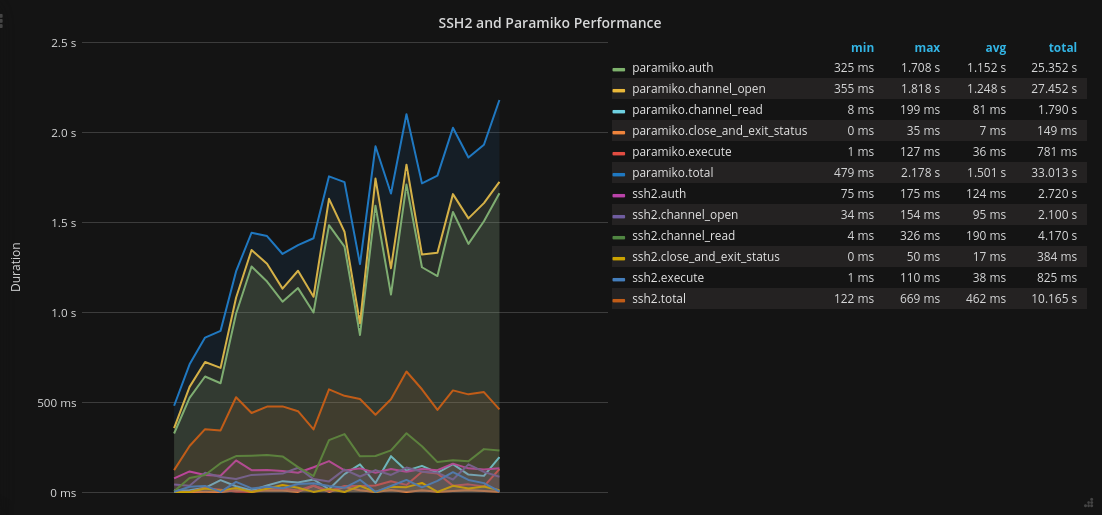
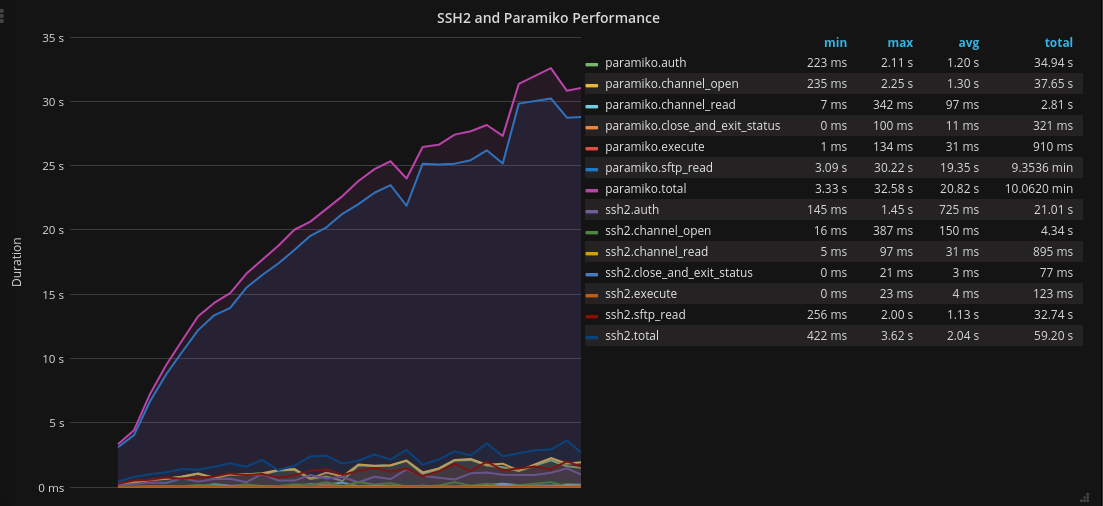
Updated ssh2 post, graphs

diff --git a/content/post/ssh2-python.md b/content/post/ssh2-python.md
@@ -9,15 +9,16 @@ draft: true
 
 In this post a new option for Python SSH libraries, [ssh2-python](https://github.com/ParallelSSH/ssh2-python), shall be compared to Paramiko to demonstrate their respective performance with particular emphasis on concurrency and non-blocking requests.
 
-In looking for a Python SSH library to use in an application, not many options exist. Indeed, the only general purpose library that has, up to now, been available is Paramiko, which implements the SSH2 API in Python.
+In looking for a Python SSH library to use in an application, not many options exist. Indeed, the only general purpose library that has, up to now, been available is Paramiko, which implements the SSH2 API in Python code.
 
-For better or worse - it is without doubt that the library has helped a great number of people with similar requirements as it has historically been the only option - Paramiko has been the de-facto stanard for Python SSH libraries so far.
+For better or worse - it is without doubt that the library has helped a great number of people with similar requirements, this author included as it has historically been the only option - Paramiko has been the de-facto stanard for Python SSH libraries so far.
 
-However, it leaves a lot to be desired from a performance, stability and resource consumption stand point.
+However, it leaves a lot to be desired of from a performance, stability and resource consumption stand point.
 
 Luckily, there is now another option in the form of `ssh2-python` which is based on the [libssh2](https://www.libssh2.org) C library.
 
 Many automation applications like [Ansible](https://www.ansible.com/) and [Fabric](https://github.com/fabric/fabric) make use of Paramiko and would likely be interested in knowing other options now exist. Hopefully this post will help these and other applications determine which library is better suited.
+
 
 # Performance Comparison
 
@@ -25,154 +26,112 @@ Many automation applications like [Ansible](https://www.ansible.com/) and [Fabri
 
 [paramiko](https://github.com/paramiko/paramiko) is written in Python and makes use of native extension dependencies like cryptography. It supports Linux, OSX and Windows and its native dependencies provide binary wheels.
 
+
 ## Test Setup
 
-Two separate test setups will be examined, one using threading and one using non-blocking network I/O via the [gevent](https://gevent.org) library.
+Test is using Python's `threading` standard library for concurrency. A subsequent blog post will examine non-blocking performance in the libraries via the [gevent](http://gevent.org) co-routine library. 
 
-In all cases a test script creates SSH connections in parallel to a local to the test script SSH server (OpenSSH), starting from one and increasing by one each time until completion. This shows how the two libraries scale as number of parallel connections increases.
+While threading is not a good model for scaling concurrency of network I/O, it is the only concurrency mode Paramiko supports natively and is what is used by applications like Ansible. Other projects like [parallel-ssh](https://github.com/ParallelSSH/parallel-ssh), of which am also author of, use gevent's monkey patching to make Paramiko co-operatively concurrent. That too comes with significant drawbacks which the currently in-development `ssh2-python` based natively non-blocking client aims to solve. See the [work in progress pull request](https://github.com/ParallelSSH/parallel-ssh/pull/86) for more details on that.
 
-Max parallel clients differ in the two test cases, fifty (50) for threading and one hundred (100) for non-blocking due to diminishing returns in the threading case.
+The test script creates SSH sessions in parallel to an SSH server (OpenSSH) via loop back device (localhost), starting from one and increasing by one each iteration until completion. This shows how the two libraries scale as number of parallel sessions increases.
 
-In all tests the latest available version of each library is used, ``2.2.1`` and ``0.5.3`` for Paramiko and ssh2-python respectively. For `ssh2-python` an embedded `libssh2` was used, latest available version `1.8.0`.
+Maximum number of threads and therefor parallel sessions are set to 50. All tests are performed on a quad physical core CPU.
 
-The libraries are compared in five separate SSH operations, as well as total time spent from start to finish per SSH session.
+In all tests the latest available version of each library is used, ``2.2.1`` and ``0.5.3`` for Paramiko and ssh2-python respectively. For `ssh2-python` an embedded `libssh2` was used, latest available version `1.8.0`. All tests performed under Python `2.7`.
 
-The four operations compared are:
+The libraries are compared in six separate SSH operations, as well as total time spent from start to finish per SSH session.
+
+The six operations compared are:
 
 * Session initialisation and authentication with SSH agent (`auth`)
 * Channel open (`channel_open`)
-* Channel execute shell command, `cat` on a static file (`execute`)
+* Channel execute (`execute`)
 * Channel read - (`channel_read`)
 * Channel close and get exit status (`close_and_exit_status`)
+* SFTP read (`sftp_read`)
 
 A quick explanation of what these operations do:
 
 * Session initialisation and authentication - perform handshake with SSH server and authenticate via a system SSH agent.
 * Channel open - one new SSH channel on an authenticated session is required to be opened per remote command to run.
+* Channel execute - run shell command `cat` on a static file
 * Channel read - retrieving command output.
 * Channel close - performed when command is finished in order to gather exit status.
+* SFTP read - initialise SFTP session, open remote file handle, read data. Read data is not written anywhere.
+
 
 The static file that is used for the `cat` remote command is a `26KB` [license file from the ssh2-python repository](https://github.com/ParallelSSH/ssh2-python/blob/master/LICENSE).
+
+The file used for SFTP read is an 11MB compressed tar archive.
 
 All durations are in milliseconds (ms).
 
 
-### Test 1 - Threading <a name="threading"></a>
+### Test Results
 
-In the threading test, each SSH session is run in a separate thread via Python's `threading` standard library. No external dependencies are used.
-
-
-#### All Operations Graph
-
-Here is how the two libraries compare on the four separate operations plus total time spent.
-
-Click on image for a larger version.
-
-[![ssh2 paramiko comparison](/static/ssh2_paramiko.png "All Operations Threading Comparison")](/static/ssh2_paramiko.png)
-
-As can be seen above, Paramiko durations are dominated by authentication and channel open which keep increasing as concurrency ramps up.
-
-For ssh2-python, biggest time spent is in channel read, followed by channel open and auth, with spikes in latency that are somewhat expected, given the blocking calls used.
-
-
-#### Median Operations
-
-Median times for operations, not including total time, to give a more normalised view of timings excluding outliers.
-
-Click on image for a larger version.
-
-[![ssh2 paramiko comparison](/static/ssh2_paramiko_median.png "All Operations Threading Comparison")](/static/ssh2_paramiko_median.png)
-
-
-### Test 2 - Non-Blocking <a name="non-blocking"></a>
-
-In the non-blocking case, each SSH session is run in a separate `greenlet`. Since Paramiko does not support non-blocking requests, gevent's monkey patching was used to patch the standard library as non-blocking. This allows the code between the two scripts to remain identical, other than the monkey patching.
-
-While ssh2-python supports non-blocking mode natively via `libssh2`, keeping the test code identical allows for a more fair apples-to-apples comparison with Paramiko. A native non-blocking client could, however, perform better with `ssh2-python`.
-
+Graphs show median values per thirty second intervals.
 
 #### All Operations Graph
 
-Click on image for a larger version.
-
-[![ssh2 paramiko comparison](/static/ssh2_paramiko_gevent.png "All Operations non-blocking Comparison")](/static/ssh2_paramiko_gevent.png)
-
-
-In the non-blocking case, authentication and channel open again dominate Paramiko durations. Predominantly blocking calls like channel read, close and exit status durations have reduced significantly.
-
-For `ssh2-python`, it appears that the non-blocking socket provided by `gevent` has smoothed out spikes in latency in its operations and as a result operations that predominantly wait for remote output *do not increase in duration* as concurrency ramps up. 
-
-This matches similar reductions in the Paramiko case but in a larger number of operations, pointing to in-code overhead for these operations in Paramiko.
-
-Highest `ssh2-python` durations are in authentication and channel open in this case.
-
-
-#### Median Operations
-
-Here are median times for the non-blocking case, excluding total time.
+Here is how the two libraries compare on the five separate operations plus total time spent.
 
 Click on image for a larger version.
 
-[![ssh2 paramiko comparison](/static/ssh2_paramiko_gevent_median.png "Individual Operations non-blocking Comparison")](/static/ssh2_paramiko_gevent_median.png)
+[![ssh2 paramiko comparison](/static/ssh2_paramiko.png "All Operations Comparison")](/static/ssh2_paramiko.png)
 
+As can be seen above, Paramiko durations are dominated by SFTP read, authentication and channel open which keep increasing as concurrency ramps up.
+
+For ssh2-python, biggest time spent is in SFTP read followed by auth and channel open. 
+
+Both libraries show intermittent spikes in duration that are expected given the number of threads and blocking calls used.
+
+
+#### Individual Operations
+
+Times for operations not including SFTP and total to show a closer view of the rest of timings.
+
+Click on image for a larger version.
+
+[![ssh2 paramiko comparison](/static/ssh2_paramiko_median.png "Individual Operations Comparison")](/static/ssh2_paramiko_median.png)
 
 # Relative Performance
 
-Performance of the averages of *median* operation of the two libraries for the duration of each test compared relative to each other. Total duration is an absolute time, not a median.
+Relative performance of the averages of *median* operations of the two libraries for the duration of the test. Total and SFTP read durations are for averages.
 
-For example if a `Paramiko` operation is twice as fast as the equivalent `ssh2-python` operation, its relative performance difference is `50%` compared to ssh2-python. Identical durations result in `100%` relative performance.
-
-## Threading
+For example if a `Paramiko` operation were twice as fast as the equivalent `ssh2-python` operation, its relative performance would be `x0.5` of ssh2-python whereas identical durations would result in `x1` relative performance.
 
 
 Operation| Paramiko | ssh2 | Paramiko/ssh2-python relative difference
 ---------| ---------| -----| -------------
-`auth` | 1.131 sec | 120 ms | `-942.5%`
-`channel open` | 1.217 sec | 93 ms | `-1308.6%`
-`channel read` | 81 ms | 181 ms | `+44.75%`
-`close and exit status` | 5ms | 17 ms | `+29.41%`
-`execute` | 34 ms | 37 ms | `+91.89%`
-`total` | 33.01 sec | 10.16 sec | `-324.77%`
+`auth` | 1.16 sec | 675 ms | `x1.71`
+`channel open` | 1.248 sec | 141 ms | `x8.85`
+`channel read` | 78 ms |  29 ms | `x2.68`
+`close and exit status` | 4 ms | 1 ms | `x4`
+`execute` | 24 ms | 3 ms | `x8`
+`sftp_read` | 19.35 sec | 1.13 sec | `x17.12`
+`total` | 20.82 sec | 2.04 s | `x10.2`
 
-
-## Non-blocking
-
-
-Operation| Paramiko | ssh2 | Relative Performance
----------| ---------| -----| -------------
-`auth` | 1.662 sec | 314 ms | `-529.29%`
-`channel open` | 1.818 sec | 20 ms | `-9090.0%`
-`channel read` | 4 ms | 4 ms | `100%`
-`close and exit status` | 0 ms | 0 ms | `100%`
-`execute` | 151 ms | 0 ms | `-15100%`
-`total` | 56.68 sec | 9.39 sec | `-603.62%`
 
 # Postface
 
+In all, `ssh2-python` is shown to be considerably faster, particularly in heavy operations like SFTP, for which reading is some `x17` times faster on average compared to Paramiko. Other operations that particularly benefit are channel open, `x8` faster, and execute, also `x8`. In total in the above test case `ssh2-python` is shown to be about an order of magnitude (`x10`) faster on average.
 
-For the threading case, `ssh2-python` is `3.24` times faster in total duration.
+Also note that memory consumption is not graphed, but is significantly lower with `ssh2-python` as expected as it is based on a native library.
 
-For the non-blocking case, `ssh2-python` is `6.03` times faster in total duration.
+As for comparisons between a pure Python code SSH library and one based on a C library being "*unfair*" - the "*pure*" Python code library also uses native code extensions for cryptography operations, making the argument moot. Note how the operation with the *least* performance difference is authentication which is mostly handled by native code extensions in Paramiko.
 
-Individual operations wise, for the threading case `ssh2-python` is `9.4` and `13` times faster in authentication and channel open respectively. Execute is a bit slower at `0.9` times slower than Paramiko. Channel read is `0.4` times slower on average.
-
-For the non-blocking case, `ssh2-python` is `5.29` and `90` times faster in authentication and channel open respectively. Execute is `151` times faster. Channel read is identical.
-
-Note that memory consumption is not graphed, but is significantly lower with `ssh2-python` as expected as it is based on a native library.
-
-For a non-blocking parallel SSH library see [parallel-ssh](https://github.com/ParallelSSH/parallel-ssh) which I am also the author of. It currently uses Paramiko with an `ssh2-python` client currently in development and in line for the next release.
+There is also no requirement to write a low-level SSH API implementation purely in Python. Many reasons not to in fact, as these results go some way in showing.
 
 
 # Appendix
 
-Test scripts used for the two test cases can be found below:
+Test script used can be found below:
 
-* [Threading](https://gist.github.com/pkittenis/f4a386ea38d09504a7ba429b45babde6#file-perf_test_ssh2-py)
-* [Non-blocking](https://gist.github.com/pkittenis/f4a386ea38d09504a7ba429b45babde6#file-perf_test_non_blocking_ssh2-py)
+* [Performance test script](https://gist.github.com/pkittenis/f4a386ea38d09504a7ba429b45babde6#file-perf_test_ssh2-py)
 
-The test scripts write duration data to a local [InfluxDB](https://portal.influxdata.com/downloads) via its Graphite service. 
+The test script writes duration data to a local [InfluxDB](https://portal.influxdata.com/downloads) via its Graphite service using a `measurement.field*` [template](https://github.com/influxdata/influxdb/tree/master/services/graphite#templates).
 
-Graphs above were generated by [Grafana](https://grafana.com), as queried from InfluxDB by [InfluxGraph](https://github.com/InfluxGraph/influxgraph).
+Graphs above were generated by [Grafana](https://grafana.com), as queried from InfluxDB by [InfluxGraph](https://github.com/InfluxGraph/influxgraph) using the [same template configuration as InfluxDB](https://github.com/InfluxGraph/influxgraph#influxdb-graphite-metric-templates).
 
 To replicate results, take care to use the exact versions of the libraries used here, including `libssh2`. Older versions of `libssh2` are not completely thread safe and will cause crashes.
 

diff --git a/content/about.md b/content/about.md
@@ -4,6 +4,6 @@ date: 2017-08-21T13:32:39+01:00
 draft: true
 ---
 
-Full-stack developer in C/C++, Python, Scala, Ruby, multiple query languages and more. Ten years and counting experience in areas from low latency, low as in microseconds, trading platforms, large scale back-end micro services utilising big data NoSQL databases, time series data and more.
+Full-stack developer from hardware, OS and applications in C/C++, Python, Scala, Ruby, multiple query languages and more. More than a decade and counting experience in areas from low latency trading platforms and large scale distributed back-end micro services utilising big data NoSQL databases, NoSQL, SQL and SQL-like development, time series data and much more.
 
-Lives and works in London. All opinions expressed are my own and in no way relate to my past, current or future employers.
+Lives and works in London. All views and opinions expressed are the authors and in no way relate to any past, current or future employers.
